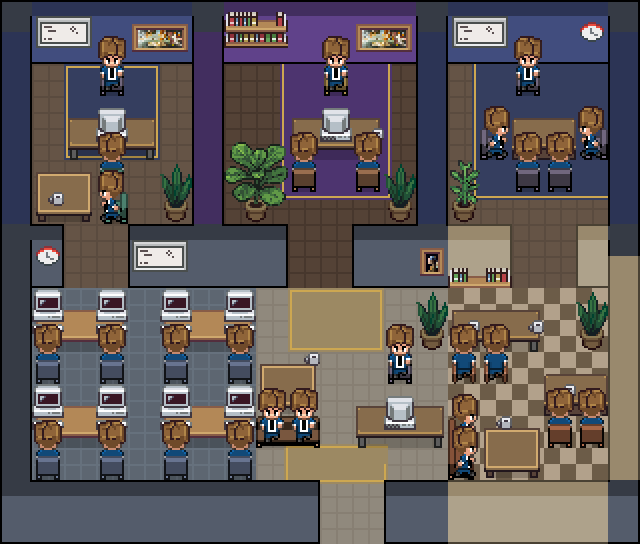
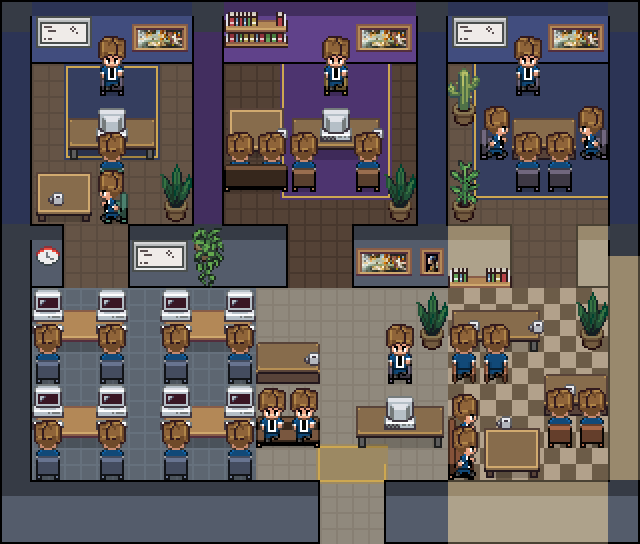
правки трёх аудиторов: проход налево открыт, лаунж у CEO, переговорная дооформлена

diff --git a/layouts/office/spec.py b/layouts/office/spec.py
@@ -70,23 +70,23 @@ FURNITURE = [
   ('CUSHIONED_CHAIR_FRONT', 10, 1, GOLD_SEAT),
   ('DESK_FRONT', 9, 2, WOOD_DARK), ('PC_BACK', 10, 2), ('COFFEE', 11, 3),
   ('CUSHIONED_CHAIR_BACK', 9, 4, COGNAC), ('CUSHIONED_CHAIR_BACK', 11, 4, COGNAC),
-  ('LARGE_PLANT', 7, 3), ('PLANT_2', 12, 4),
+  ('COFFEE_TABLE', 7, 2, WOOD_DARK), ('COFFEE', 8, 3), ('SOFA_BACK', 7, 4, COGNAC), ('PLANT_2', 12, 4),
   # ===== ПРАВЫЙ КАБИНЕТ (переговорная, cols 14-18) — полный редизайн: стол на шесть мест
-  ('WHITEBOARD', 14, -1), ('CLOCK', 18, -1),
+  ('WHITEBOARD', 14, -1), ('LARGE_PAINTING', 17, -1),
   ('SMALL_TABLE_FRONT', 16, 2, WOOD_DARK),
   ('CUSHIONED_CHAIR_FRONT', 16, 1, LEATHER),
   ('CUSHIONED_CHAIR_SIDE', 15, 3, LEATHER), ('CUSHIONED_CHAIR_SIDE:left', 18, 3, LEATHER),
   ('CUSHIONED_CHAIR_BACK', 16, 4, LEATHER), ('CUSHIONED_CHAIR_BACK', 17, 4, LEATHER),
-  ('PLANT', 14, 4),
+  ('PLANT', 14, 4), ('CACTUS', 14, 1),
   # ===== ВХОДНАЯ ЗОНА (cols 8-13) — диван со столиком слева, ресепшн справа, проход по колонке 10
   ('SMALL_PAINTING_2', 13, 6),
-  ('COFFEE_TABLE', 8, 10, WOOD_DARK), ('COFFEE', 9, 10),
+  ('SMALL_TABLE_FRONT', 8, 9, WOOD_DARK), ('COFFEE', 9, 10),
   ('SOFA_FRONT', 8, 12, COGNAC),
-  ('PLANT_2', 13, 8),
+  ('PLANT_2', 13, 8), ('LARGE_PAINTING', 11, 6),
   ('CUSHIONED_CHAIR_FRONT', 12, 10, LEATHER),
   ('DESK_FRONT', 11, 11, WOOD_DARK), ('PC_BACK', 12, 11),
   # ===== ОПЕНСПЕЙС (cols 1-7) — восемь рабочих мест, концепция сохранена
-  ('CLOCK', 1, 6), ('WHITEBOARD', 4, 6),
+  ('CLOCK', 1, 6), ('WHITEBOARD', 4, 6), ('HANGING_PLANT', 6, 6),
   ('DESK_FRONT', 1, 8), ('PC_FRONT_OFF', 1, 8), ('PC_FRONT_OFF', 3, 8),
   ('CUSHIONED_CHAIR_BACK', 1, 10, STAFF_SEAT), ('CUSHIONED_CHAIR_BACK', 3, 10, STAFF_SEAT),
   ('DESK_FRONT', 5, 8), ('PC_FRONT_OFF', 5, 8), ('PC_FRONT_OFF', 7, 8),
@@ -114,8 +114,7 @@ CARPETS = [
   {'variant': 0, 'col': 9, 'row': 1, 'w': 3, 'h': 4, 'color': RUG_VIOLET, 'accent': RUG_GOLD},   # CEO
   {'variant': 2, 'col': 2, 'row': 1, 'w': 3, 'h': 3, 'color': RUG_NAVY, 'accent': RUG_GOLD},     # CTO
   {'variant': 0, 'col': 15, 'row': 1, 'w': 4, 'h': 4, 'color': RUG_NAVY, 'accent': RUG_GOLD},    # переговорная
-  {'variant': 1, 'col': 9, 'row': 13, 'w': 3, 'h': 1, 'color': RUG_CREAM, 'accent': RUG_GOLD},   # коврик у входа
-  {'variant': 2, 'col': 9, 'row': 8, 'w': 3, 'h': 2, 'color': RUG_CREAM, 'accent': RUG_GOLD},   # площадка перед кабинетом
+  {'variant': 1, 'col': 10, 'row': 13, 'w': 2, 'h': 1, 'color': RUG_CREAM, 'accent': RUG_GOLD},   # коврик у входа
 ]
 
 PETS = [0, 1]
